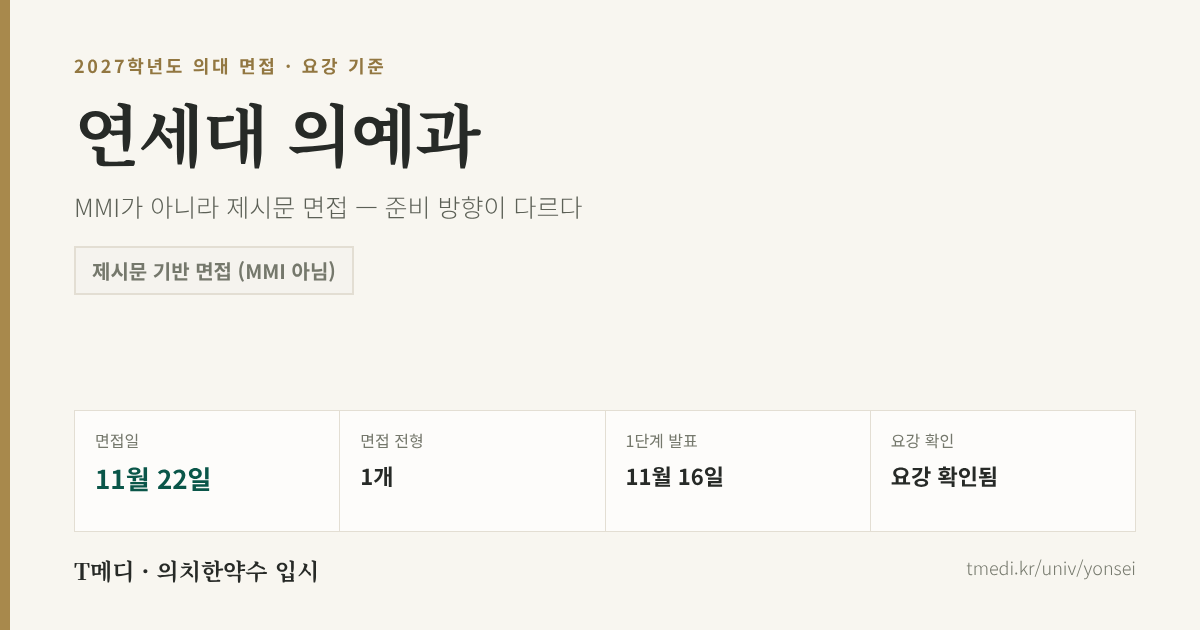
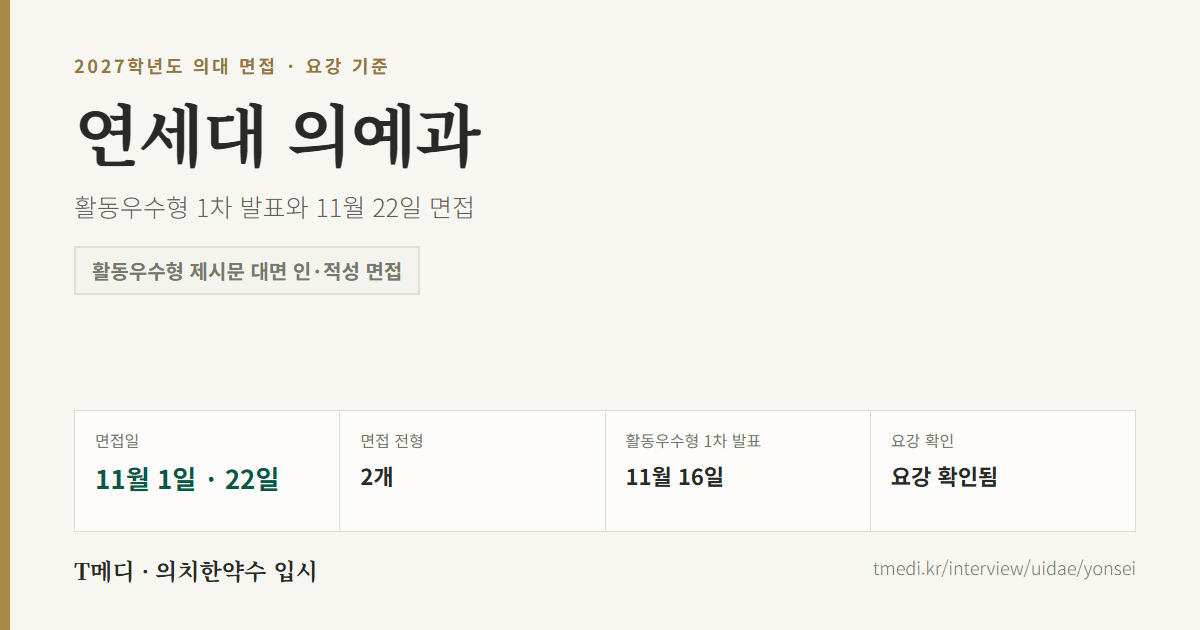
fix: 연세대 의예과 발표 조회와 대면 면접 안내 정정

diff --git a/app/interview/uidae/[slug]/page.tsx b/app/interview/uidae/[slug]/page.tsx
@@ -92,7 +92,7 @@ export async function generateMetadata({
     first?.interview ? `면접 ${formatKo(first.interview)}.` : "",
     noInterview ? "" : "면접 방식·일정과 대학별 대비 포인트, 1:1 면접 수업 일정까지 정리했습니다.",
   ].filter(Boolean);
-  const description = sentences.join(" ");
+  const description = u.interview?.resultNotice && search?.lead ? search.lead : sentences.join(" ");
 
   // 실제 검색어는 "○○대 의대 면접" — 제목 앞머리에 그대로 둔다(2026-10-21 노출 점검).
   const title =
@@ -145,6 +145,8 @@ export default async function UidaeInterviewUnivPage({
 
   const iv = u.interview;
   const tracks = iv?.tracks ?? [];
+  const notice = iv?.resultNotice;
+  const announcedTrack = notice && tracks.find((t) => t.id === notice.trackId);
   const groups = quotaByType(u);
   const noInterview = u.hasInterview === false;
   /** 특강 일정·예약 블록은 mmi-schedule SSOT 에 데이터가 있는 대학만 렌더한다. */
@@ -179,7 +181,7 @@ export default async function UidaeInterviewUnivPage({
       })();
   /** 띠 문구에 이 대학에만 성립하는 조각을 붙인다(39개 띠가 같은 문장이 되지 않게) */
   const classContext = [
-    interviewDays.length > 0 ? `면접 ${formatKo(interviewDays[0])}` : null,
+    interviewDays.length > 0 ? `면접 ${formatKo(announcedTrack?.interview ?? interviewDays[0])}` : null,
     iv?.styleLabel ?? null,
   ]
     .filter(Boolean)
@@ -215,7 +217,7 @@ export default async function UidaeInterviewUnivPage({
       ? { label: "면접", value: "없음", sub: "2027학년도 전 전형 미실시" }
       : { label: "면접 실시", value: String(tracks.length), unit: "개 전형", sub: iv?.styleLabel ?? "확인 필요" },
     interviewDays.length > 0
-      ? { label: "면접일", value: formatKo(interviewDays[0]).replace(/\(.\)$/, ""), sub: interviewDays.length > 1 ? `외 ${interviewDays.length - 1}일` : "단일 일정" }
+      ? { label: "면접일", value: formatKo(announcedTrack?.interview ?? interviewDays[0]).replace(/\(.\)$/, ""), sub: announcedTrack?.name ?? (interviewDays.length > 1 ? `외 ${interviewDays.length - 1}일` : "단일 일정") }
       : { label: "면접일", value: "—", sub: noInterview ? "면접 없음" : "미공지" },
   ];
 
@@ -230,8 +232,8 @@ export default async function UidaeInterviewUnivPage({
           ]),
           article({
             path: `/interview/uidae/${u.slug}`,
-            headline: `${u.short} 의대 면접 2027 — 방식·일정·대비`,
-            description: `${u.name} 2027학년도 수시 면접. ${
+            headline: notice ? `${u.short} 의대 면접, ${iv?.headline}` : `${u.short} 의대 면접 2027 — 방식·일정·대비`,
+            description: iv?.search?.lead ?? `${u.name} 2027학년도 수시 면접. ${
               noInterview ? "면접 미실시" : iv?.styleLabel ?? "면접 실시"
             }.`,
           }),
@@ -268,17 +270,29 @@ export default async function UidaeInterviewUnivPage({
           iv?.lede ??
           `${u.name}의 2027학년도 수시 면접을 정리했습니다. 면접 방식과 일정, 이 대학을 겨냥한 대비 포인트를 확인하세요.`
         }
-        primaryHref={noInterview ? "#contact" : "#class"}
-        primaryLabel={noInterview ? `${u.short} 면접 수업 문의` : `${u.short} 면접 수업 안내`}
-        secondaryHref={`/univ/${u.slug}`}
-        secondaryLabel="전형 안내 보기"
+        primaryHref={notice?.url ?? (noInterview ? "#contact" : "#class")}
+        primaryLabel={notice ? "입학처에서 면접대상자 조회" : noInterview ? `${u.short} 면접 수업 문의` : `${u.short} 면접 수업 안내`}
+        secondaryHref={notice ? "#class" : `/univ/${u.slug}`}
+        secondaryLabel={notice ? "면접 수업 안내" : "전형 안내 보기"}
         Icon={MessagesSquare}
         stats={[
           { icon: MessagesSquare, label: noInterview ? "면접 미실시" : `면접 ${tracks.length}개 전형` },
-          ...(interviewDays.length > 0 ? [{ icon: CalendarDays, label: `면접 ${formatKo(interviewDays[0])}` }] : []),
-          ...(u.hasClassPage ? [{ icon: Users, label: "MMI 특강 개설" }] : []),
+          ...(interviewDays.length > 0 ? [{ icon: CalendarDays, label: `면접 ${formatKo(announcedTrack?.interview ?? interviewDays[0])}` }] : []),
+          ...(u.hasClassPage ? [{ icon: Users, label: "면접 특강 개설" }] : []),
         ]}
       />
+
+      {notice && announcedTrack && (
+        <PromoSection title={`${announcedTrack.name} 1단계 발표 후 확인할 사항`}>
+          <div className="mx-auto max-w-3xl space-y-4 leading-relaxed text-ink-700">
+            <p><time dateTime={notice.published}>{formatKo(notice.published)}</time> 발표에서 면접대상자로 선정됐다면, {notice.details}</p>
+            <ul className="list-disc space-y-2 pl-5 text-jade-700">
+              {iv?.sources.map((s) => <li key={s.url}><a className="underline underline-offset-4" href={s.url}>{s.label}</a></li>)}
+            </ul>
+            {univGichul && <a className="inline-block underline underline-offset-4" href="#gichul">{u.short} 의예과 기출 해설 보기</a>}
+          </div>
+        </PromoSection>
+      )}
 
       <UnivStatRow
         items={stats}
@@ -428,7 +442,7 @@ export default async function UidaeInterviewUnivPage({
       {/* ===== 공개 기출 분석 — 가천대(lib/gachon-gichul.ts) · 나머지 대학(lib/univ-gichul.ts).
           같은 대학의 여러 계열 페이지가 겹치지 않게 나눠 싣는다 ===== */}
       {gichul && <GachonGichul page={gichul} />}
-      {univGichul && <UnivGichulBlock u={univGichul.u} field={univGichul.field} />}
+      {univGichul && <div id="gichul" className="scroll-mt-24"><UnivGichulBlock u={univGichul.u} field={univGichul.field} /></div>}
 
       {cross.length > 0 && (
         <PromoSection

diff --git a/lib/mmi-schedule.ts b/lib/mmi-schedule.ts
@@ -466,6 +466,8 @@ export type Univ = {
   tracks: Track[];
   notes?: string[];
   sources: { label: string; url: string }[];
+  /** 대학이 실제로 게시한 면접대상자 발표. 해당 전형에만 표시한다. */
+  resultNotice?: { trackId: string; url: string; published: string; details: string };
   /** 검색 노출용 덮어쓰기 — 실제 검색어(약칭·전형명·발표일)가 기본 제목 템플릿과 다를 때만 쓴다.
    *  /interview/uidae/<slug> 의 <title> 과 description 앞머리에만 적용된다. URL 은 바꾸지 않는다. */
   search?: {
@@ -1194,19 +1196,29 @@ export const UNIVS: Univ[] = [
     short: "연세대",
     region: "서울",
     style: "none",
-    styleLabel: "제시문 기반 면접 (MMI 아님)",
-    headline: "MMI가 아니라 제시문 면접 — 준비 방향이 다르다",
+    styleLabel: "활동우수형 제시문 대면 인·적성 면접",
+    headline: "활동우수형 1차 발표와 11월 22일 면접",
     lede:
-      "연세대는 스테이션을 도는 MMI가 아니라 제시문 기반 면접입니다. 짧은 상황 판단을 여러 번 하는 훈련보다, 하나의 제시문을 깊게 읽고 길게 논증하는 훈련이 맞습니다.",
+      "연세대 의대(연대의대) 서울캠퍼스는 2026년 11월 16일 활동우수형 의예과 1단계 합격자, 즉 2단계 면접대상자를 발표했습니다. 11월 22일(일)에는 두 면접실에서 제시문을 바탕으로 의학 전공에 필요한 인성과 적성을 평가합니다.",
+    search: {
+      title: "2027 연세대 의대 면접 | 활동우수형 1차 발표·11월 22일 일정·기출 | T메디",
+      lead: "연세대 서울캠퍼스 의예과 활동우수형 1단계 결과는 11월 16일 발표됐습니다. 연세대 입학처 결과 조회, 11월 22일 개인별 입실 안내, 두 차례의 대면 면접과 전년도 기출을 확인하세요.",
+    },
+    resultNotice: {
+      trackId: "yonsei-hwaldong",
+      url: "https://www2.yonsei.ac.kr/entrance/2027/susi/pass_1st_CB_K/pass.asp",
+      published: "2026-11-16",
+      details: "입학처 조회 화면에 성명·수험번호·생년월일을 입력해 본인의 오전·오후 배정, 입실 완료 시각과 고사장을 확인하세요. 오전 조는 13시에 함께 퇴실하고 오후 조는 면접을 마친 뒤 개별 퇴실합니다.",
+    },
     format: [
-      "제시문 기반 면접 (자연계)",
-      "1단계 발표 11월 16일 → 면접 11월 22일",
-      "활동우수형 의예과",
+      "활동우수형 의예과는 대면 면접을 두 차례 봅니다. 각 차수마다 준비실에서 8분 동안 문제를 읽은 뒤 고사장으로 이동해 8분 내외로 답합니다.",
+      "준비실에서는 제공된 연습지 한 장의 앞뒷면에 메모할 수 있습니다. 면접에서 메모를 보고 답한 뒤 연습지를 제출하고 다음 준비실로 이동합니다.",
+      "기회균형 지원자는 별도 일정의 현장 녹화 면접을 봅니다. 11월 16일 발표와 11월 22일 대면 면접은 활동우수형 일정입니다.",
     ],
     drills: [
-      "MMI 커리큘럼을 그대로 쓰면 안 된다. 제시문 독해 → 논지 구성 → 반론 대응의 긴 호흡 훈련",
-      "제시문 안의 논리적 허점을 스스로 찾아 지적하는 연습 — 추가 질문의 상당수가 여기서 나온다",
-      "발표 11/16 → 면접 11/22, 6일. 수능(11/19) 직후 구간이라 체력 관리가 준비량만큼 중요하다",
+      "2026학년도 수시 활동우수형 의예과 기출 중 조언을 묻는 문제를 고르세요. 제시문에서 근거를 찾아 친구에게 건넬 말로 바꾸고, 조건이 달라졌을 때도 그 조언이 맞는지 설명해 보세요.",
+      "자료 해석 문제는 표나 그래프에서 직접 확인한 사실과 그 사실로부터 내린 판단을 나눠 메모하세요. 어떤 자료를 보고 결론을 냈는지 말로 짚어 보세요.",
+      "서로 다른 기출로 준비 8분과 답변 8분을 두 차례 연습하세요. 두 번째 문제는 새 연습지에서 시작합니다.",
     ],
     tracks: [
       {
@@ -1215,11 +1227,22 @@ export const UNIVS: Univ[] = [
         mmi: false,
         announce: "2026-11-16",
         interview: "2026-11-22",
-        interviewNote: "자연계",
+        interviewNote: "오전·오후 개별 배정, 대면 2회",
+        multiple: "4배수",
+        weight: "1단계 서류 100% → 2단계 1단계 점수 60% + 면접 40%",
+      },
+      {
+        id: "yonsei-opportunity",
+        name: "학생부종합 기회균형 의예",
+        mmi: false,
+        announce: "2026-10-26",
+        interview: "2026-11-01",
+        interviewNote: "오후, 현장 녹화",
       },
     ],
     sources: [
-      { label: "베리타스알파 — 연세대 2027수시 면접일정 공개", url: "https://www.veritas-a.com/news/articleView.html?idxno=625556" },
+      { label: "연세대 입학처 | 2027 수시 면접 일정·의과대학 사전 안내", url: "https://admission.yonsei.ac.kr/seoul/admission/html/rolling/noticeView.asp?BBS_NO=3523" },
+      { label: "연세대 입학처 | 2026학년도 기출문제 별책·선행학습 영향평가 보고서", url: "https://admission.yonsei.ac.kr/seoul/admission/html/counsel/dataView.asp?BBS_NO=3490" },
     ],
   },
 

diff --git a/lib/interview-types.ts b/lib/interview-types.ts
@@ -325,7 +325,7 @@ export const INTERVIEW_TYPES: InterviewType[] = [
       "제시문은 생명윤리 · 의료 상황 · 사회 쟁점이거나, 자료 · 그래프 해석이다",
       "고려대 의학과는 예외로 수학 · 과학 교과 제시문이 나온다 — 인·적성 MMI 2회와 별도로 자연계 공통 제시문 면접(준비 21분 · 면접 7분)을 보며, 출제범위가 수학Ⅰ·Ⅱ·미적분·확률과 통계·기하와 물리·화학·생명과학·지구과학 Ⅰ·Ⅱ다. 과목을 고르지 않고, 여러 과목 제시문을 공통 개념(2025 대칭, 2026 이중성)으로 엮는 융합형이라 지식보다 제시문을 읽고 연결 · 적용하는 힘을 본다. 의대 전용이 아니라 자연계 오전 조 공통 문항이다",
       "서울대처럼 제시문 여러 개를 스테이션으로 이어 약 60분간 진행하는 대학도 있다 — 지구력이 별개 변수로 붙는다",
-      "기출이 공개된 유일한 유형이다 — 연세대 미래는 입학처가 면접 기출문제와 선행학습영향평가결과보고서를 공개한다",
+      "연세대 서울은 활동우수형 의예과 기출을 선행학습 영향평가 별책에 공개한다. 미래캠퍼스 기출은 미래입학처에서 따로 확인한다",
       "제시문만으로 끝나지 않는 대학이 있다. 서류확인 면접과 함께 보거나, 전형에 따라 준비물이 갈린다",
     ],
     tables: [
@@ -378,7 +378,7 @@ export const INTERVIEW_TYPES: InterviewType[] = [
       {
         title: "기출을 실제 시험 조건으로 반복",
         body:
-          "연세대 미래는 입학처가 기출문제와 선행학습영향평가결과보고서를 공개합니다. 출제 범위를 직접 확인할 수 있는 유일한 유형이므로, 눈으로 읽지 말고 숙지 10분 · 답변 10분 타이머를 걸고 실제 조건 그대로 반복하는 것이 가장 효율적입니다.",
+          "연세대 지원자는 캠퍼스별 입학처 기출을 사용하세요. 서울 활동우수형 의예과는 준비 8분과 답변 8분 내외를 두 차례, 미래 의예과는 숙지 10분과 면접 10분을 기준으로 연습합니다.",
       },
       {
         title: "윤리 문제를 원칙의 언어로",
@@ -462,7 +462,7 @@ const ASSIGN: Record<string, Assign> = {
   pusan: { primary: "mmi", also: ["jesimun"], tag: "2개 고사실 순회 — 공통문제 + 학생부" },
 
   /* --- 제시문 : 별도 지문·출제문항을 읽고 답하는 대학 -------------------- */
-  yonsei: { primary: "jesimun", tag: "제시문 기반 면접 (MMI 아님)" },
+  yonsei: { primary: "jesimun", tag: "활동우수형 대면 인·적성 2회 · 회당 준비 8분, 답변 8분 내외" },
   "yonsei-mirae": { primary: "jesimun", tag: "숙지 10분 + 면접 10분 · 의학적 인성" },
   "konkuk-glocal": { primary: "jesimun", tag: "서류확인 면접 + 제시문 면접 병행" },
   yeungnam: { primary: "jesimun", tag: "학생부 + 제시문 (전형별 상이)" },

diff --git a/app/univ/[slug]/page.tsx b/app/univ/[slug]/page.tsx
@@ -215,7 +215,7 @@ export default async function UnivPage({
             </div>
           </div>
           <span className="inline-flex shrink-0 items-center justify-center gap-2 bg-paper px-7 py-4 text-[15px] font-semibold text-ink transition-colors group-hover:bg-brass-200">
-            {noInterview ? "면접 미실시 안내" : `${u.short} 면접 보러 가기`}
+            {iv?.resultNotice ? `${u.short} 의대 1차 발표·면접 기출 보기` : noInterview ? "면접 미실시 안내" : `${u.short} 면접 보러 가기`}
             <ArrowRight className="h-4 w-4 transition-transform duration-300 group-hover:translate-x-1" strokeWidth={2} />
           </span>
         </Link>

diff --git a/app/univ/_univ.tsx b/app/univ/_univ.tsx
@@ -341,7 +341,7 @@ export function UnivCard({ univ }: { univ: UnivPage }) {
         ) : tracks.length > 0 ? (
           <span className="tnum text-jade-700">면접 {tracks.length}개 전형</span>
         ) : null}
-        {univ.hasClassPage && <span className="text-brass-600">MMI 특강</span>}
+        {univ.hasClassPage && <span className="text-brass-600">면접 특강</span>}
       </div>
     </Link>
   );

diff --git a/app/interview/_interview.tsx b/app/interview/_interview.tsx
@@ -83,7 +83,7 @@ export function TypeUnivTable({
                     </Link>
                     {univ.hasClassPage && (
                       <span className="mt-1.5 block text-[11px] font-light tracking-tight text-brass-600">
-                        MMI 특강 개설
+                        면접 특강 개설
                       </span>
                     )}
                   </td>

diff --git a/app/interview/uidae/page.tsx b/app/interview/uidae/page.tsx
@@ -206,7 +206,7 @@ export default function UidaeInterviewPage() {
             sub: "면접 준비가 필요 없는 대학",
           },
           {
-            label: "MMI 특강 개설",
+            label: "면접 특강 개설",
             value: String(UNIV_TOTALS.withClass),
             unit: "개교",
             sub: "1단계 발표일 기준 수업 캘린더 운영",
